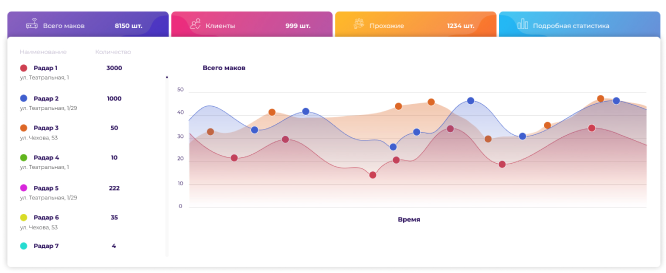
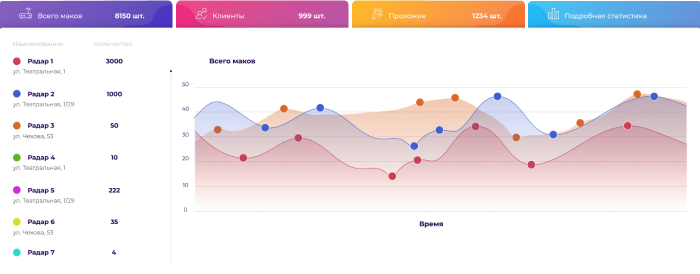
business stat img

diff --git a/css/style.css b/css/style.css
@@ -1792,6 +1792,7 @@ body {
   -webkit-box-direction: normal;
       -ms-flex-direction: column;
           flex-direction: column;
+  padding: 0 1px;
 }
 
 .slide-business__title {
@@ -1840,19 +1841,25 @@ body {
   margin: 38px 0;
 }
 
-.slide-business__image img {
-  max-width: 100%;
+.slide-business__image > img {
+  width: 100%;
 }
 
 .slide-business__image--pulse {
   position: relative;
   width: 626px;
+  max-width: 100%;
 }
 
 @media (max-width: 680px) {
   .slide-business__image--pulse {
     width: 100%;
   }
+}
+
+.slide-business__image--pulse img {
+  width: auto;
+  max-width: 100%;
 }
 
 .slide-business__image--pulse:before {

diff --git a/#source/scss/_business-radar.scss b/#source/scss/_business-radar.scss
@@ -215,6 +215,7 @@
 .slide-business {
 	display: flex;
 	flex-direction: column;
+	padding: 0 1px;
 	&__title {
 		font-weight: bold;
 		font-size: 28px;
@@ -253,16 +254,22 @@
 		width: 100%;
 		margin: 38px 0;
 
-		img {
-			max-width: 100%;
+		> img {
+			width: 100%;
 		}
 
 		&--pulse {
 			position: relative;
 			width: 626px;
+			max-width: 100%;
 
 			@media (max-width: 680px) {
 				width: 100%;
+			}
+
+			img {
+				width: auto;
+				max-width: 100%;
 			}
 
 			&:before {
